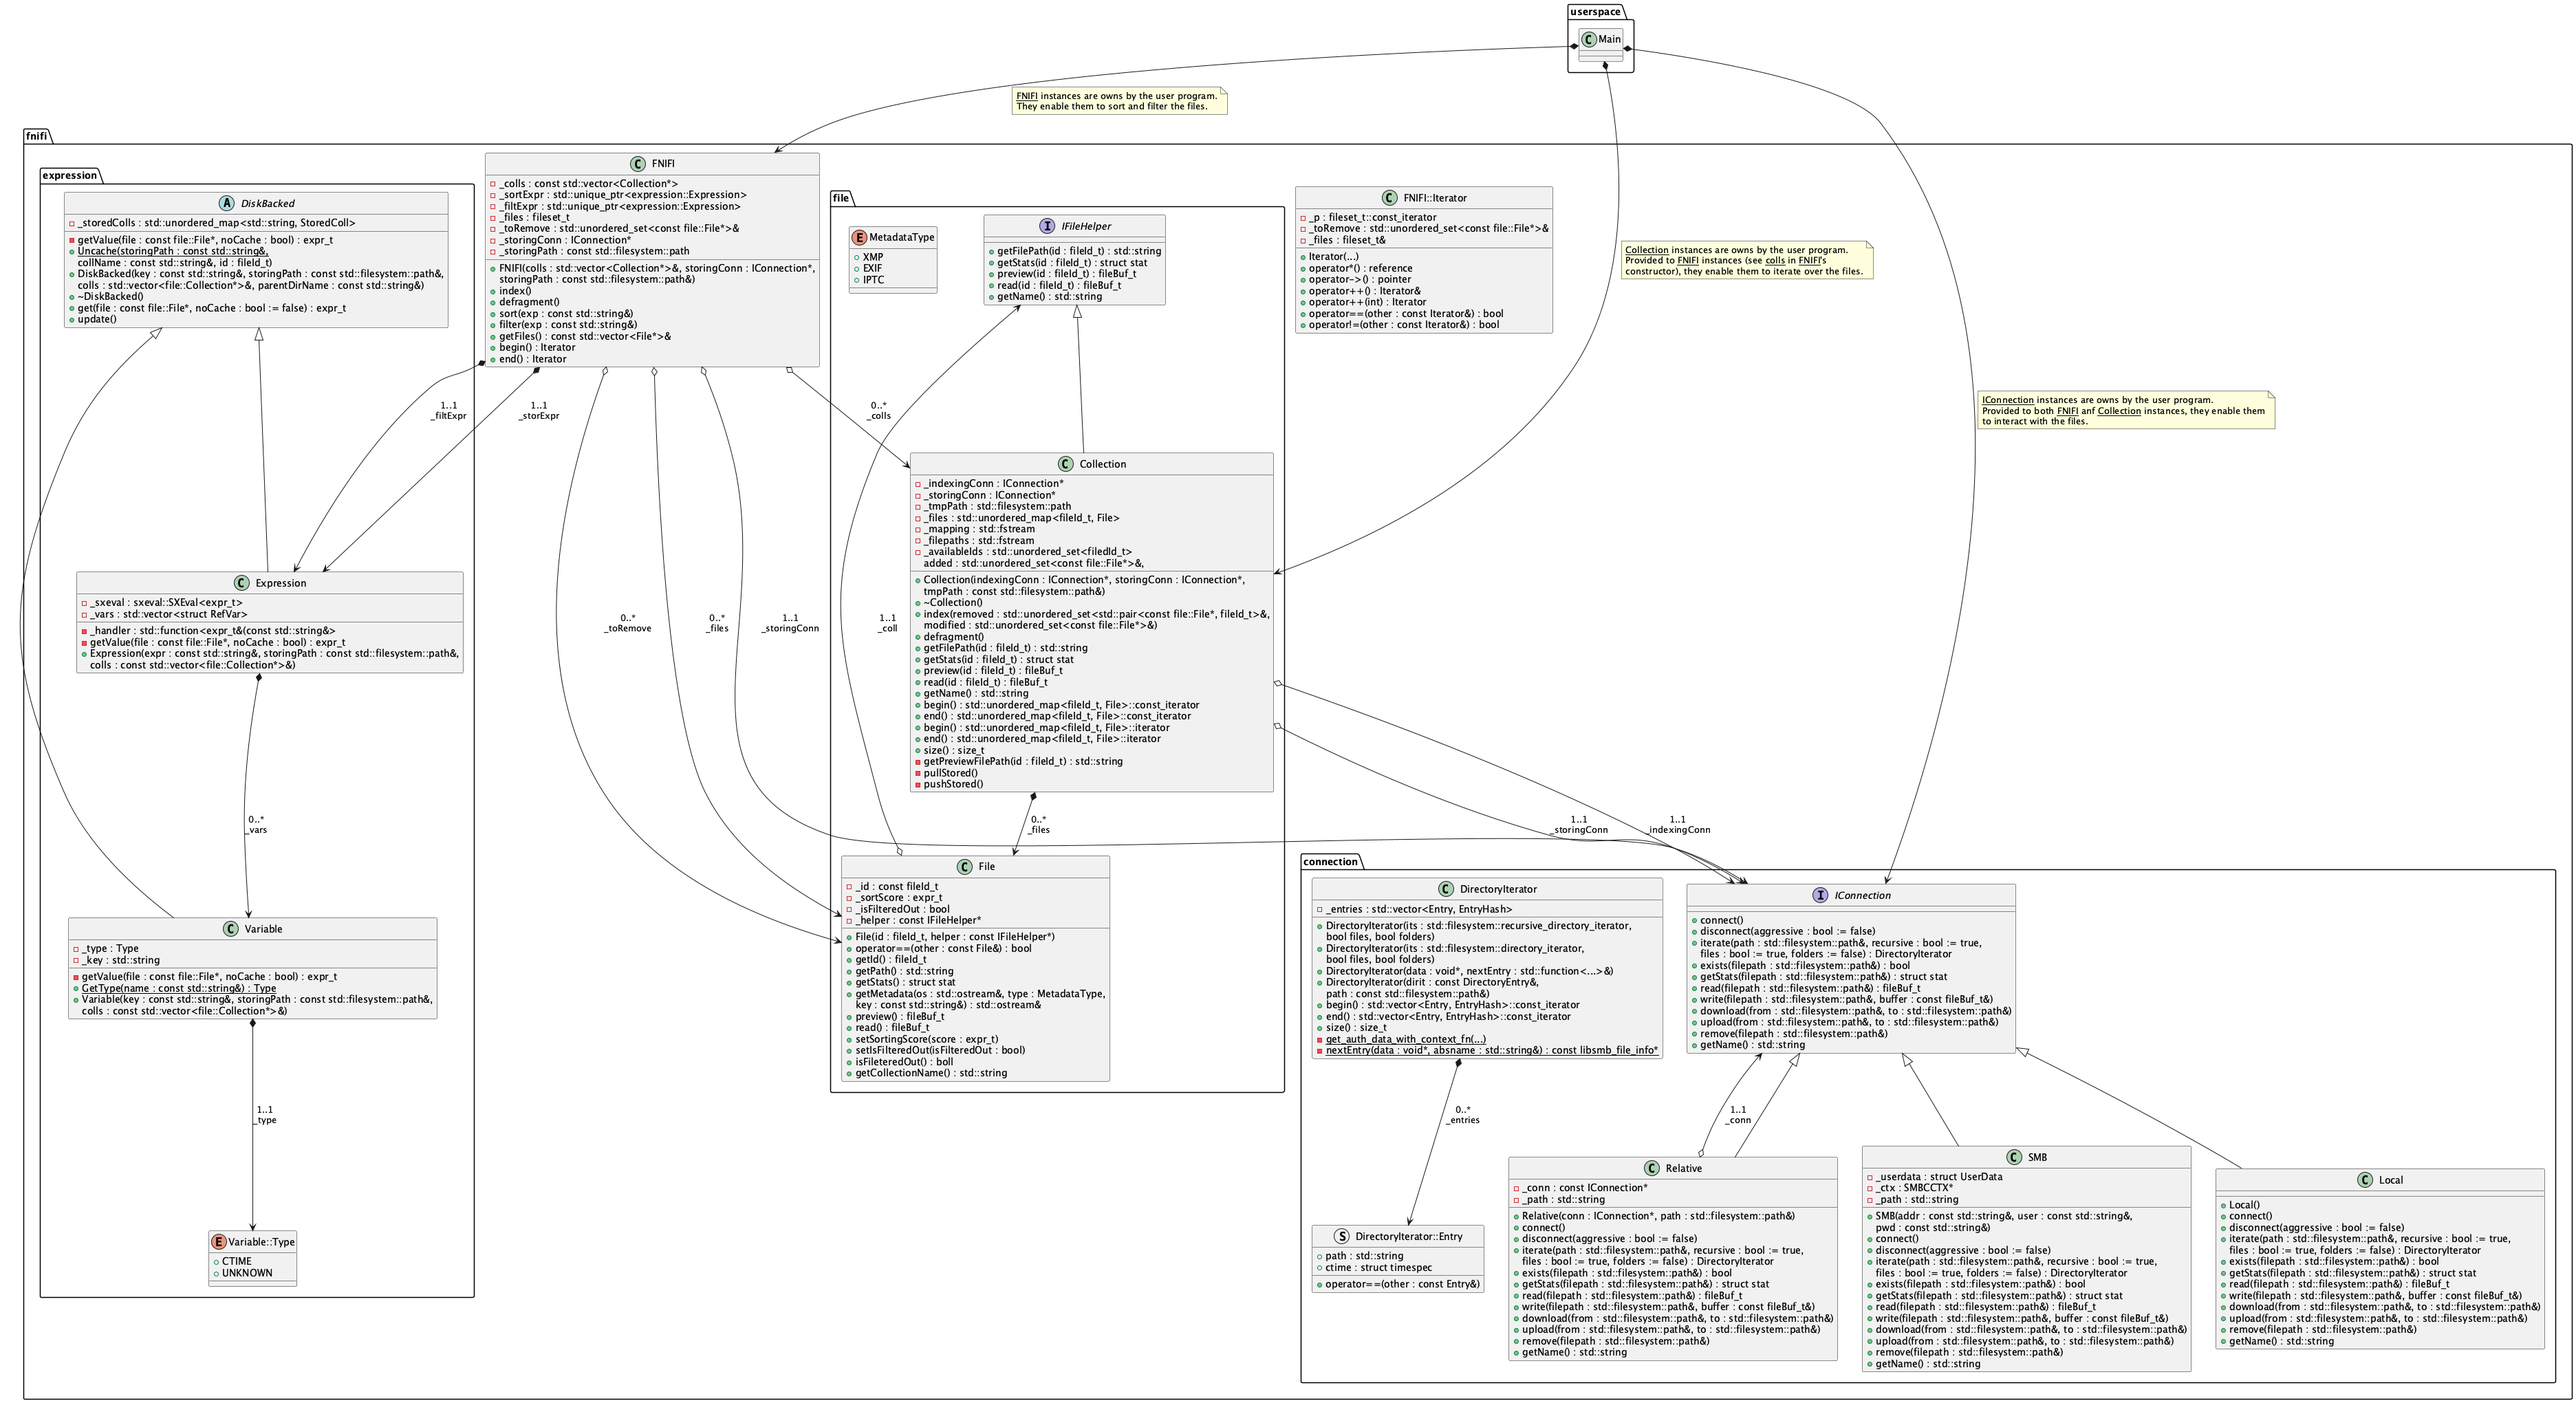
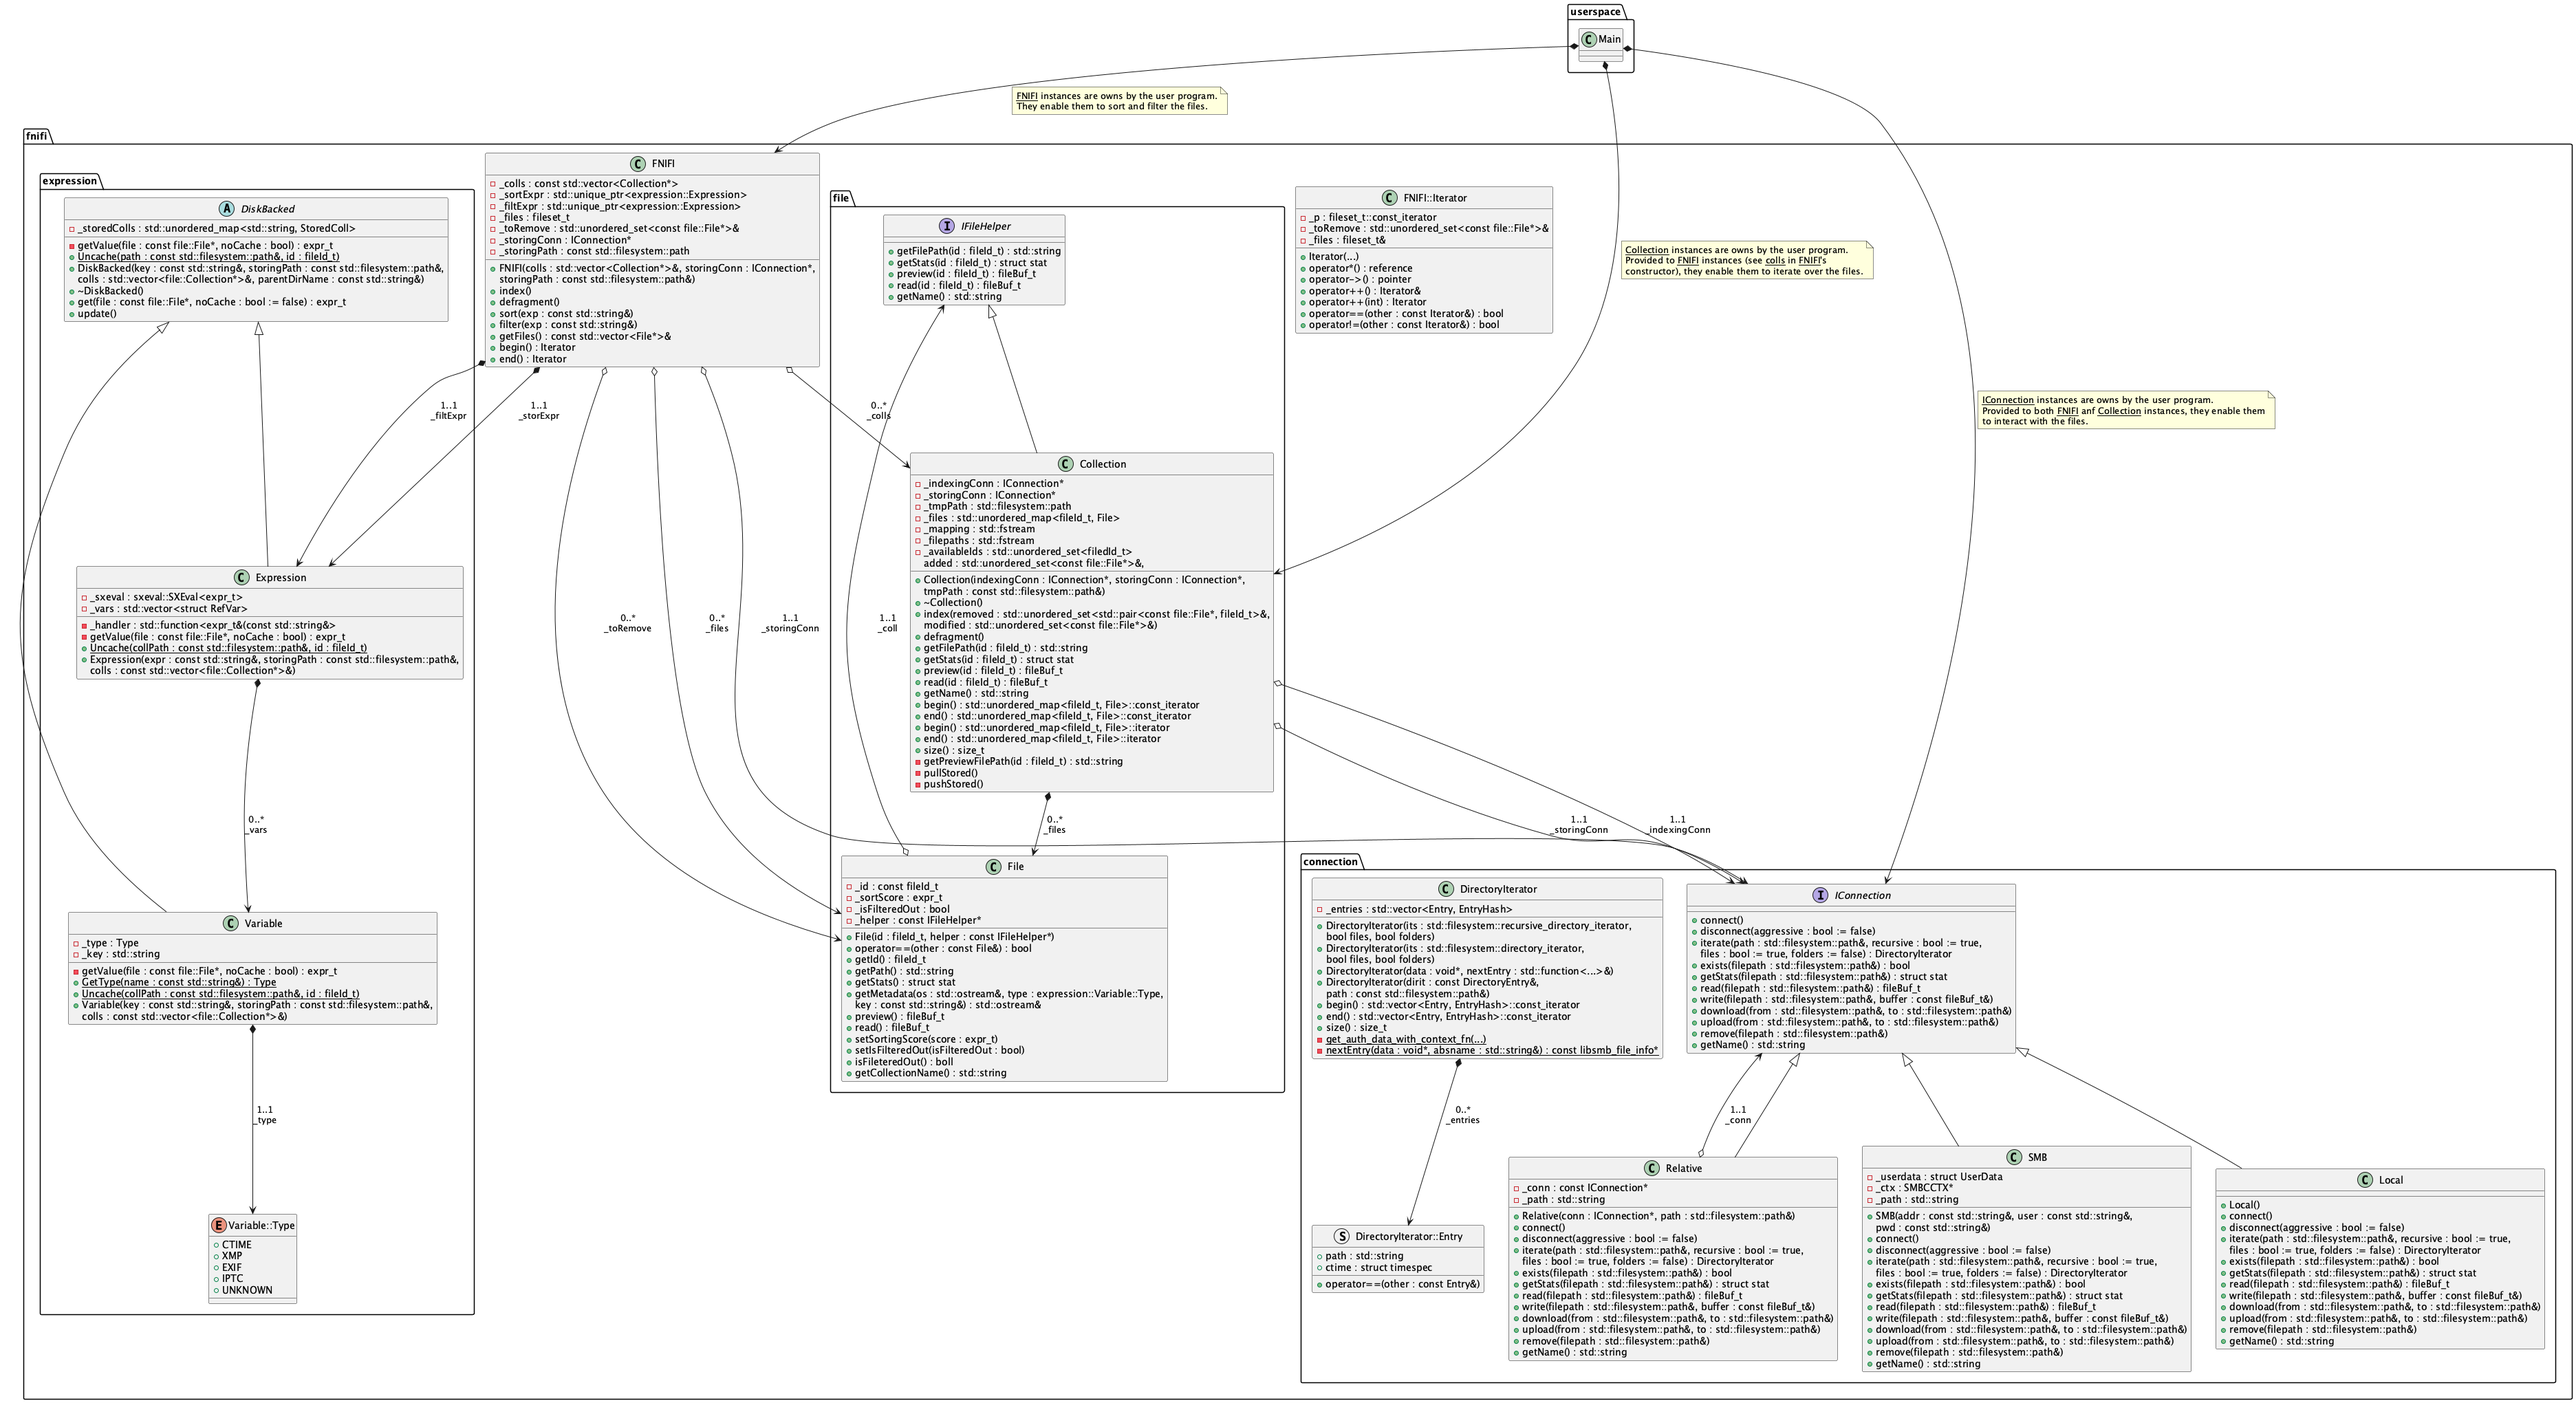
cleaning

diff --git a/src/File.cpp b/src/File.cpp
@@ -31,14 +31,20 @@ struct stat File::getStats() const {
     return _helper->getStats(_id);
 }
 
-std::ostream& File::getMetadata(std::ostream& os, MetadataType type,
+std::ostream& File::getMetadata(std::ostream& os, expression::Type type,
                                 const std::string& key) const {
     const auto data = _helper->read(_id);
 
     switch (type) {
-        case XMP:
-        case EXIF:
-        case IPTC:
+        case expression::CTIME:
+            {
+                const auto time = _helper->getStats(_id).st_ctimespec;
+                os << (S_TO_NS(time.tv_sec) + time.tv_nsec);
+            }
+            break;
+        case expression::XMP:
+        case expression::EXIF:
+        case expression::IPTC:
             {
                 Exiv2::Image::UniquePtr image;
                 try {
@@ -56,7 +62,7 @@ std::ostream& File::getMetadata(std::ostream& os, MetadataType type,
                 image->readMetadata();
 
                 switch (type) {
-                    case XMP:
+                    case expression::XMP:
                         {
                             const auto& meta = image->xmpData();
                             const auto pos = meta.findKey(Exiv2::XmpKey(key));
@@ -65,7 +71,7 @@ std::ostream& File::getMetadata(std::ostream& os, MetadataType type,
                             }
                         }
                         break;
-                    case EXIF:
+                    case expression::EXIF:
                         {
                             const auto& meta = image->exifData();
                             const auto pos = meta.findKey(Exiv2::ExifKey(key));
@@ -74,7 +80,7 @@ std::ostream& File::getMetadata(std::ostream& os, MetadataType type,
                             }
                         }
                         break;
-                    case IPTC:
+                    case expression::IPTC:
                         {
                             const auto& meta = image->iptcData();
                             const auto pos = meta.findKey(Exiv2::IptcKey(key));
@@ -83,9 +89,15 @@ std::ostream& File::getMetadata(std::ostream& os, MetadataType type,
                             }
                         }
                         break;
+                    case expression::CTIME:
+                    case expression::UNKOWN:
+                        /* impossible */
+                        break;
                 }
             }
             break;
+        case expression::UNKOWN:
+            throw std::runtime_error("Bad Metadata's type");
     }
 
     return os;

diff --git a/src/DiskBacked.cpp b/src/DiskBacked.cpp
@@ -80,7 +80,7 @@ DiskBacked::~DiskBacked() {
     }
 }
 
-expr_t DiskBacked::get(const file::File* file, bool noCache) {
+expr_t DiskBacked::get(const file::File* file) {
     /* get the associated stored file */
     const auto stored = _storedColls.find(file->getCollectionName());
     if (stored == _storedColls.end()) {
@@ -94,16 +94,14 @@ expr_t DiskBacked::get(const file::File* file, bool noCache) {
     const auto pos = id * sizeof(expr_t);
 
     if (id <= stored->second.maxId) {
-        if (!noCache) {
-            /* the value may be saved */
-            expr_t res;
-            stored->second.file->seekg(std::streamoff(pos));
-            Deserialize(*stored->second.file, res);
+        /* the value may be saved */
+        expr_t res;
+        stored->second.file->seekg(std::streamoff(pos));
+        Deserialize(*stored->second.file, res);
 
-            if (res != EMPTY_EXPR_T) {
-                /* the value was saved */
-                return res;
-            }
+        if (res != EMPTY_EXPR_T) {
+            /* the value was saved */
+            return res;
         }
     } else {
         /* filling the file up to the position of the value */
@@ -115,7 +113,7 @@ expr_t DiskBacked::get(const file::File* file, bool noCache) {
         stored->second.maxId = id;
     }
 
-    const auto res = getValue(file, noCache);
+    const auto res = getValue(file);
     stored->second.file->seekp(std::streamoff(pos));
     Serialize(*stored->second.file, res);
 

diff --git a/src/Variable.cpp b/src/Variable.cpp
@@ -6,7 +6,7 @@
 using namespace fnifi;
 using namespace fnifi::expression;
 
-Variable::Type Variable::GetType(const std::string& name) {
+Type Variable::GetType(const std::string& name) {
     if (name == "ctime") return Type::CTIME;
     return Type::UNKOWN;
 }
@@ -33,7 +33,8 @@ Variable::Variable(const std::string& key,
     }
 }
 
-expr_t Variable::getValue(const file::File* file, bool noCache) {
+expr_t Variable::getValue(const file::File* file) {
+    /* TODO consider using File::getMetadata */
     switch (_type) {
         case CTIME:
             {
@@ -42,10 +43,10 @@ expr_t Variable::getValue(const file::File* file, bool noCache) {
                                            );
             }
         case UNKOWN:
-            {
-                TODO
-            }
+            throw std::runtime_error("Bad Metadata's type");
+        case EXIF:
+        case XMP:
+        case IPTC:
+            TODO
     }
-
-    UNUSED(noCache);
 }

diff --git a/include/fnifi/expression/Variable.hpp b/include/fnifi/expression/Variable.hpp
@@ -4,6 +4,7 @@
 #include "fnifi/file/File.hpp"
 #include "fnifi/file/Collection.hpp"
 #include "fnifi/expression/DiskBacked.hpp"
+#include "fnifi/expression/Type.hpp"
 #include "fnifi/utils.hpp"
 #include <string>
 
@@ -13,11 +14,6 @@ namespace expression {
 
 class Variable : public DiskBacked {
 public:
-    enum Type {
-        CTIME,  /* creation time */
-        UNKOWN
-    };
-
     static Type GetType(const std::string& name);
     static void Uncache(const std::filesystem::path& collPath, fileId_t id);
 
@@ -25,7 +21,7 @@ public:
              const std::vector<file::Collection*>& colls);
 
 private:
-    expr_t getValue(const file::File* file, bool noCache = false) override;
+    expr_t getValue(const file::File* file) override;
 
     Type _type;
     std::string _name;

diff --git a/src/FNIFI.cpp b/src/FNIFI.cpp
@@ -127,13 +127,13 @@ void FNIFI::index() {
             bool hasChanged = false;
             if (_sortExpr) {
                 const auto prevScore = file->getSortingScore();
-                const auto score = _sortExpr->get(file, true);
+                const auto score = _sortExpr->get(file);
                 file->setSortingScore(score);
                 hasChanged = hasChanged || (score != prevScore);
             }
             if (_filtExpr) {
                 const auto prevCheck = file->isFilteredOut();
-                const auto check = _filtExpr->get(file, true);
+                const auto check = _filtExpr->get(file);
                 file->setIsFilteredOut(check);
                 hasChanged = hasChanged || (check != prevCheck);
             }

diff --git a/include/fnifi/file/File.hpp b/include/fnifi/file/File.hpp
@@ -2,7 +2,7 @@
 #define FNIFI_FILE_FILE_HPP
 
 #include "fnifi/file/IFileHelper.hpp"
-#include "fnifi/file/MetadataType.hpp"
+#include "fnifi/expression/Type.hpp"
 #include "fnifi/utils.hpp"
 #include <sys/stat.h>
 #include <exiv2/exiv2.hpp>
@@ -24,7 +24,7 @@ public:
     fileId_t getId() const;
     std::string getPath() const;
     struct stat getStats() const;
-    std::ostream& getMetadata(std::ostream& os, MetadataType type,
+    std::ostream& getMetadata(std::ostream& os, expression::Type type,
                               const std::string& key) const;
     fileBuf_t preview() const;
     fileBuf_t read() const;

diff --git a/include/fnifi/expression/DiskBacked.hpp b/include/fnifi/expression/DiskBacked.hpp
@@ -21,7 +21,7 @@ public:
                const std::vector<file::Collection*>& colls,
                const std::filesystem::path& parentDirName);
     virtual ~DiskBacked();
-    expr_t get(const file::File* file, bool noCache = false);
+    expr_t get(const file::File* file);
     void update();
 
 private:
@@ -31,7 +31,7 @@ private:
         std::filesystem::path path;
     };
 
-    virtual expr_t getValue(const file::File* file, bool noCache = false) = 0;
+    virtual expr_t getValue(const file::File* file) = 0;
 
     std::unordered_map<std::string, StoredColl> _storedColls;
 };

diff --git a/include/fnifi/expression/Type.hpp b/include/fnifi/expression/Type.hpp
@@ -1,0 +1,18 @@
+#ifndef FNIFI_EXPRESSION_TYPE_HPP
+#define FNIFI_EXPRESSION_TYPE_HPP
+
+namespace fnifi {
+namespace expression {
+
+enum Type {
+    CTIME,   /* creation time */
+    XMP,     /* XMP generic metadata */
+    EXIF,    /* EXIF generic metadata */
+    IPTC,    /* IPTC generic metadata */
+    UNKOWN,  /* unkown => throws an error */
+};
+
+}  /* namespace expression */
+}  /* namespace fnifi */
+
+#endif  /* FNIFI_EXPRESSION_TYPE_HPP */

diff --git a/examples/local/main.cpp b/examples/local/main.cpp
@@ -45,7 +45,7 @@ int main(int argc, char** argv) {
         std::cout << file->getPath() << ": ctime="
             << ctime.tv_sec << "s and " << ctime.tv_nsec
             << "ns, Exif.Image.Model=";
-        file->getMetadata(std::cout, fnifi::file::MetadataType::EXIF,
+        file->getMetadata(std::cout, fnifi::expression::Type::EXIF,
                           "Exif.Image.Model");
         std::cout << std::endl;
     }

diff --git a/src/Expression.cpp b/src/Expression.cpp
@@ -25,10 +25,10 @@ Expression::Expression(const std::string& expr,
     _sxeval.build(expr, _handler);
 }
 
-expr_t Expression::getValue(const file::File* file, bool noCache) {
+expr_t Expression::getValue(const file::File* file) {
     /* fill the variables */
     for (auto& var : _vars) {
-        var.ref = var.var->get(file, noCache);
+        var.ref = var.var->get(file);
     }
 
     /* run sxeval */

diff --git a/examples/smb-local/main.cpp b/examples/smb-local/main.cpp
@@ -49,7 +49,7 @@ int main(int argc, char** argv) {
     /* Loop over the files */
     for (const auto file : fi) {
         std::cout << file->getPath() << ": ";
-        file->getMetadata(std::cout, fnifi::file::MetadataType::EXIF,
+        file->getMetadata(std::cout, fnifi::expression::Type::EXIF,
                           "Exif.Image.Model");
         std::cout << std::endl;
     }

diff --git a/examples/smb/main.cpp b/examples/smb/main.cpp
@@ -37,7 +37,7 @@ int main(int argc, char** argv) {
     /* Loop over the files */
     for (const auto file : fi) {
         std::cout << file->getPath() << ": ";
-        file->getMetadata(std::cout, fnifi::file::MetadataType::EXIF,
+        file->getMetadata(std::cout, fnifi::expression::Type::EXIF,
                           "Exif.Image.Model");
         std::cout << std::endl;
     }
